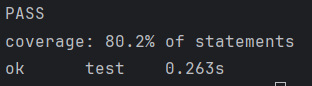
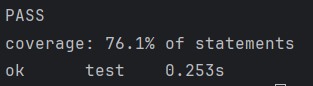
final

diff --git a/main_test.go b/main_test.go
@@ -24,6 +24,7 @@ func TestCreateTableQuery(t *testing.T) {
 	}
 	database := NewPGXDatabase(mockk)
 	defer mockk.Close()
+	mockk.ExpectExec("CREATE TABLE IF NOT EXISTS groups").WillReturnResult(pgxmock.NewResult("CREATE", 1))
 	mockk.ExpectExec("CREATE TABLE IF NOT EXISTS songs").WillReturnResult(pgxmock.NewResult("CREATE", 1))
 	err = database.CreateTableQuery(context.Background())
 	assert.NoError(t, err)
@@ -44,8 +45,11 @@ func TestInsertQuery(t *testing.T) {
 	date := "16.07.2006"
 	text := "Ooh baby, don't you know I suffer?\nOoh baby, can you hear me moan?\nYou caught me under false pretenses\nHow long before you let me go?\n\nOoh\nYou set my soul alight\nOoh\nYou set my soul alight"
 	link := "https://www.youtube.com/watch?v=Xsp3_a-PMTw"
+	mockk.ExpectQuery("INSERT INTO groups").
+		WithArgs(group).
+		WillReturnRows(pgxmock.NewRows([]string{"id"}).AddRow(1))
 	mockk.ExpectExec("INSERT INTO songs").
-		WithArgs(group, song, date, text, link).
+		WithArgs(song, date, text, link, 1).
 		WillReturnResult(pgxmock.NewResult("INSERT", 1))
 	err = database.InsertQuery(context.Background(), group, song, date, text, link)
 	assert.NoError(t, err)
@@ -63,8 +67,11 @@ func TestDeleteQuery(t *testing.T) {
 	defer mockk.Close()
 	group := "Muse"
 	song := "Supermassive Black Hole"
+	mockk.ExpectQuery("SELECT id FROM groups").
+		WithArgs(group).
+		WillReturnRows(pgxmock.NewRows([]string{"id"}).AddRow(1))
 	mockk.ExpectExec("DELETE FROM songs").
-		WithArgs(group, song).
+		WithArgs(1, song).
 		WillReturnResult(pgxmock.NewResult("DELETE", 1))
 	err = database.DeleteQuery(context.Background(), group, song)
 	assert.NoError(t, err)
@@ -87,8 +94,11 @@ func TestSelectDataQuery(t *testing.T) {
 	date := "16.07.2006"
 	text := "Ooh baby, don't you know I suffer?\nOoh baby, can you hear me moan?\nYou caught me under false pretenses\nHow long before you let me go?\n\nOoh\nYou set my soul alight\nOoh\nYou set my soul alight"
 	link := "https://www.youtube.com/watch?v=Xsp3_a-PMTw"
-	mockk.ExpectQuery("SELECT \\* FROM").
-		WithArgs(group, song, date, text, link, items, (page-1)*items).
+	mockk.ExpectQuery("SELECT id FROM groups").
+		WithArgs(group).
+		WillReturnRows(pgxmock.NewRows([]string{"id"}).AddRow(1))
+	mockk.ExpectQuery("SELECT g.group_name, s.song_name, TO_CHAR\\(s.releaseDate, \\'DD.MM.YYYY\\'\\), s.text, s.link FROM songs s JOIN groups g ON s.group_id = g.id").
+		WithArgs(1, song, date, text, link, items, (page-1)*items).
 		WillReturnRows(pgxmock.NewRows([]string{"group_name", "song_name", "releaseDate", "text", "link"}).
 			AddRow(group, song, date, text, link))
 	_, err = database.SelectDataQuery(context.Background(), page, items, group, song, date, text, link)
@@ -109,8 +119,11 @@ func TestSelectCoupletQuery(t *testing.T) {
 	group := "Muse"
 	song := "Supermassive Black Hole"
 	text := "Ooh baby, don't you know I suffer?\nOoh baby, can you hear me moan?\nYou caught me under false pretenses\nHow long before you let me go?\n\nOoh\nYou set my soul alight\nOoh\nYou set my soul alight"
+	mockk.ExpectQuery("SELECT id FROM groups").
+		WithArgs(group).
+		WillReturnRows(pgxmock.NewRows([]string{"id"}).AddRow(1))
 	mockk.ExpectQuery("SELECT text FROM songs").
-		WithArgs(group, song).
+		WithArgs(1, song).
 		WillReturnRows(pgxmock.NewRows([]string{"text"}).
 			AddRow(text))
 	_, err = database.SelectCoupletQuery(context.Background(), group, song, couplet)
@@ -132,8 +145,11 @@ func TestEditQuery(t *testing.T) {
 	date := "16.07.2006"
 	text := "Ooh baby, don't you know I suffer?\nOoh baby, can you hear me moan?\nYou caught me under false pretenses\nHow long before you let me go?\n\nOoh\nYou set my soul alight\nOoh\nYou set my soul alight"
 	link := "https://www.youtube.com/watch?v=Xsp3_a-PMTw"
+	mockk.ExpectQuery("SELECT id FROM groups").
+		WithArgs(group).
+		WillReturnRows(pgxmock.NewRows([]string{"id"}).AddRow(1))
 	mockk.ExpectExec("UPDATE songs SET").
-		WithArgs(group, song, date, text, link).
+		WithArgs(1, song, date, text, link).
 		WillReturnResult(pgxmock.NewResult("UPDATE", 1))
 	err = database.EditQuery(context.Background(), group, song, date, text, link)
 	assert.NoError(t, err)

diff --git a/db.go b/db.go
@@ -34,9 +34,12 @@ func (db *PGXDatabase) CreateTableQuery(ctx context.Context) error {
 
 func (db *PGXDatabase) InsertQuery(ctx context.Context, group_name string, song_name string, releaseDate string, text string, link string) error {
 	var groupID int
-	err := db.pool.QueryRow(ctx, "INSERT INTO groups(group_name) values($1) RETURNING id", group_name).Scan(&groupID)
+	err := db.pool.QueryRow(ctx, "SELECT id FROM groups WHERE group_name = $1", group_name).Scan(&groupID)
 	if err != nil {
-		return err
+		err = db.pool.QueryRow(ctx, "INSERT INTO groups(group_name) values($1) RETURNING id", group_name).Scan(&groupID)
+		if err != nil {
+			return err
+		}
 	}
 	_, err = db.pool.Exec(ctx, "INSERT INTO songs(song_name, releaseDate, text, link, group_id) values($1, TO_TIMESTAMP($2, 'DD.MM.YYYY'), $3, $4, $5)", song_name, releaseDate, text, link, groupID)
 	return err

diff --git a/README.md b/README.md
@@ -8,7 +8,7 @@
 
 ## Модульные тесты
 Тесты в [main_test.go](main_test.go).
-Покрытие 80%.
+Покрытие 76%.
 
 ![img.png](img.png)
 
